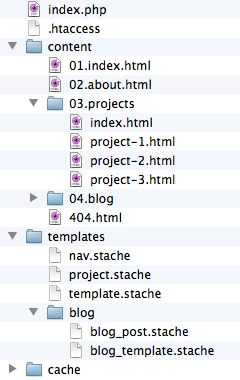
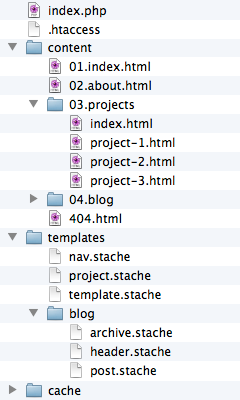
updating content and blog for a better example

diff --git a/content/01.index.html b/content/01.index.html
@@ -1,10 +1,9 @@
 <!-- 
 @title: Home
 @template: template
-@visible: true
 -->
 <h1>This site runs on <span style="font-weight: bold; color: #444;">Paste.</span></h1>
 
-<h2><img src="https://github.com/paste/paste-demo/raw/master/assets/images/content-example.png" align="left" class="screenshot" width="240" height="380">
+<h2><img src="https://github.com/paste/paste-demo/raw/master/assets/images/content-example.png" align="left" class="screenshot" width="240" height="400">
 <a href="https://github.com/paste/Paste" target="_blank">Paste</a> is a lightweight "CMS"<br/>built around static files and folders instead of a database. It aims to be fast and easy to maintain. Each HTML file represents a page in the menu, each folder represents a section, to infinite depth. It uses the <a href="http://mustache.github.io" target="_blank">Mustache</a> templating engine for versatile templates and partials. Paste requires PHP 5.3+.</h2>
 

diff --git a/content/04.blog/003.05-15-2013.html b/content/04.blog/003.05-15-2013.html
@@ -1,12 +1,8 @@
 <!--
-@partial: blog/blog_template
-@visible: true
-@slug: post-slug
-@title: The Post Title
-@label: Post Title
-@date: August 3rd, 2013
-@next_page: #next
-@prev_page: #prev
+@partial: blog/post
+@title: My First Blog
+@slug: my-first-blog
+@date: 05-15-2013
 -->
 
 <p>Lorem ipsum dolor sit amet, consectetur adipiscing elit. Suspendisse non faucibus libero. Cras bibendum, lacus at volutpat accumsan, diam orci sodales nisl, sed iaculis massa ante eu turpis. Phasellus odio turpis, gravida vitae dignissim nec, luctus non purus. Aliquam erat volutpat. Pellentesque habitant morbi tristique senectus et netus et malesuada fames ac turpis egestas. Praesent lacinia mi non est sodales ultricies semper sem euismod. Duis dapibus cursus dui, vel sollicitudin lectus tincidunt quis. Proin ullamcorper lectus et nunc porttitor euismod. Ut vitae lobortis nibh. Morbi et porta massa.</p>

diff --git a/content/04.blog/002.06-01-2013.html b/content/04.blog/002.06-01-2013.html
@@ -1,0 +1,8 @@
+<!--
+@partial: blog/post
+@title: Complaints
+@slug: complaints
+@date: 06-01-2013
+-->
+
+<p>Lorem ipsum dolor sit amet, consectetur adipiscing elit. Suspendisse non faucibus libero. Cras bibendum, lacus at volutpat accumsan, diam orci sodales nisl, sed iaculis massa ante eu turpis. Phasellus odio turpis, gravida vitae dignissim nec, luctus non purus. Aliquam erat volutpat. Pellentesque habitant morbi tristique senectus et netus et malesuada fames ac turpis egestas. Praesent lacinia mi non est sodales ultricies semper sem euismod. Duis dapibus cursus dui, vel sollicitudin lectus tincidunt quis. Proin ullamcorper lectus et nunc porttitor euismod. Ut vitae lobortis nibh. Morbi et porta massa.</p>

diff --git a/content/04.blog/001.index.html b/content/04.blog/001.index.html
@@ -1,0 +1,2 @@
+<!-- @title: Blog -->
+<!-- @partial: blog/archive -->
